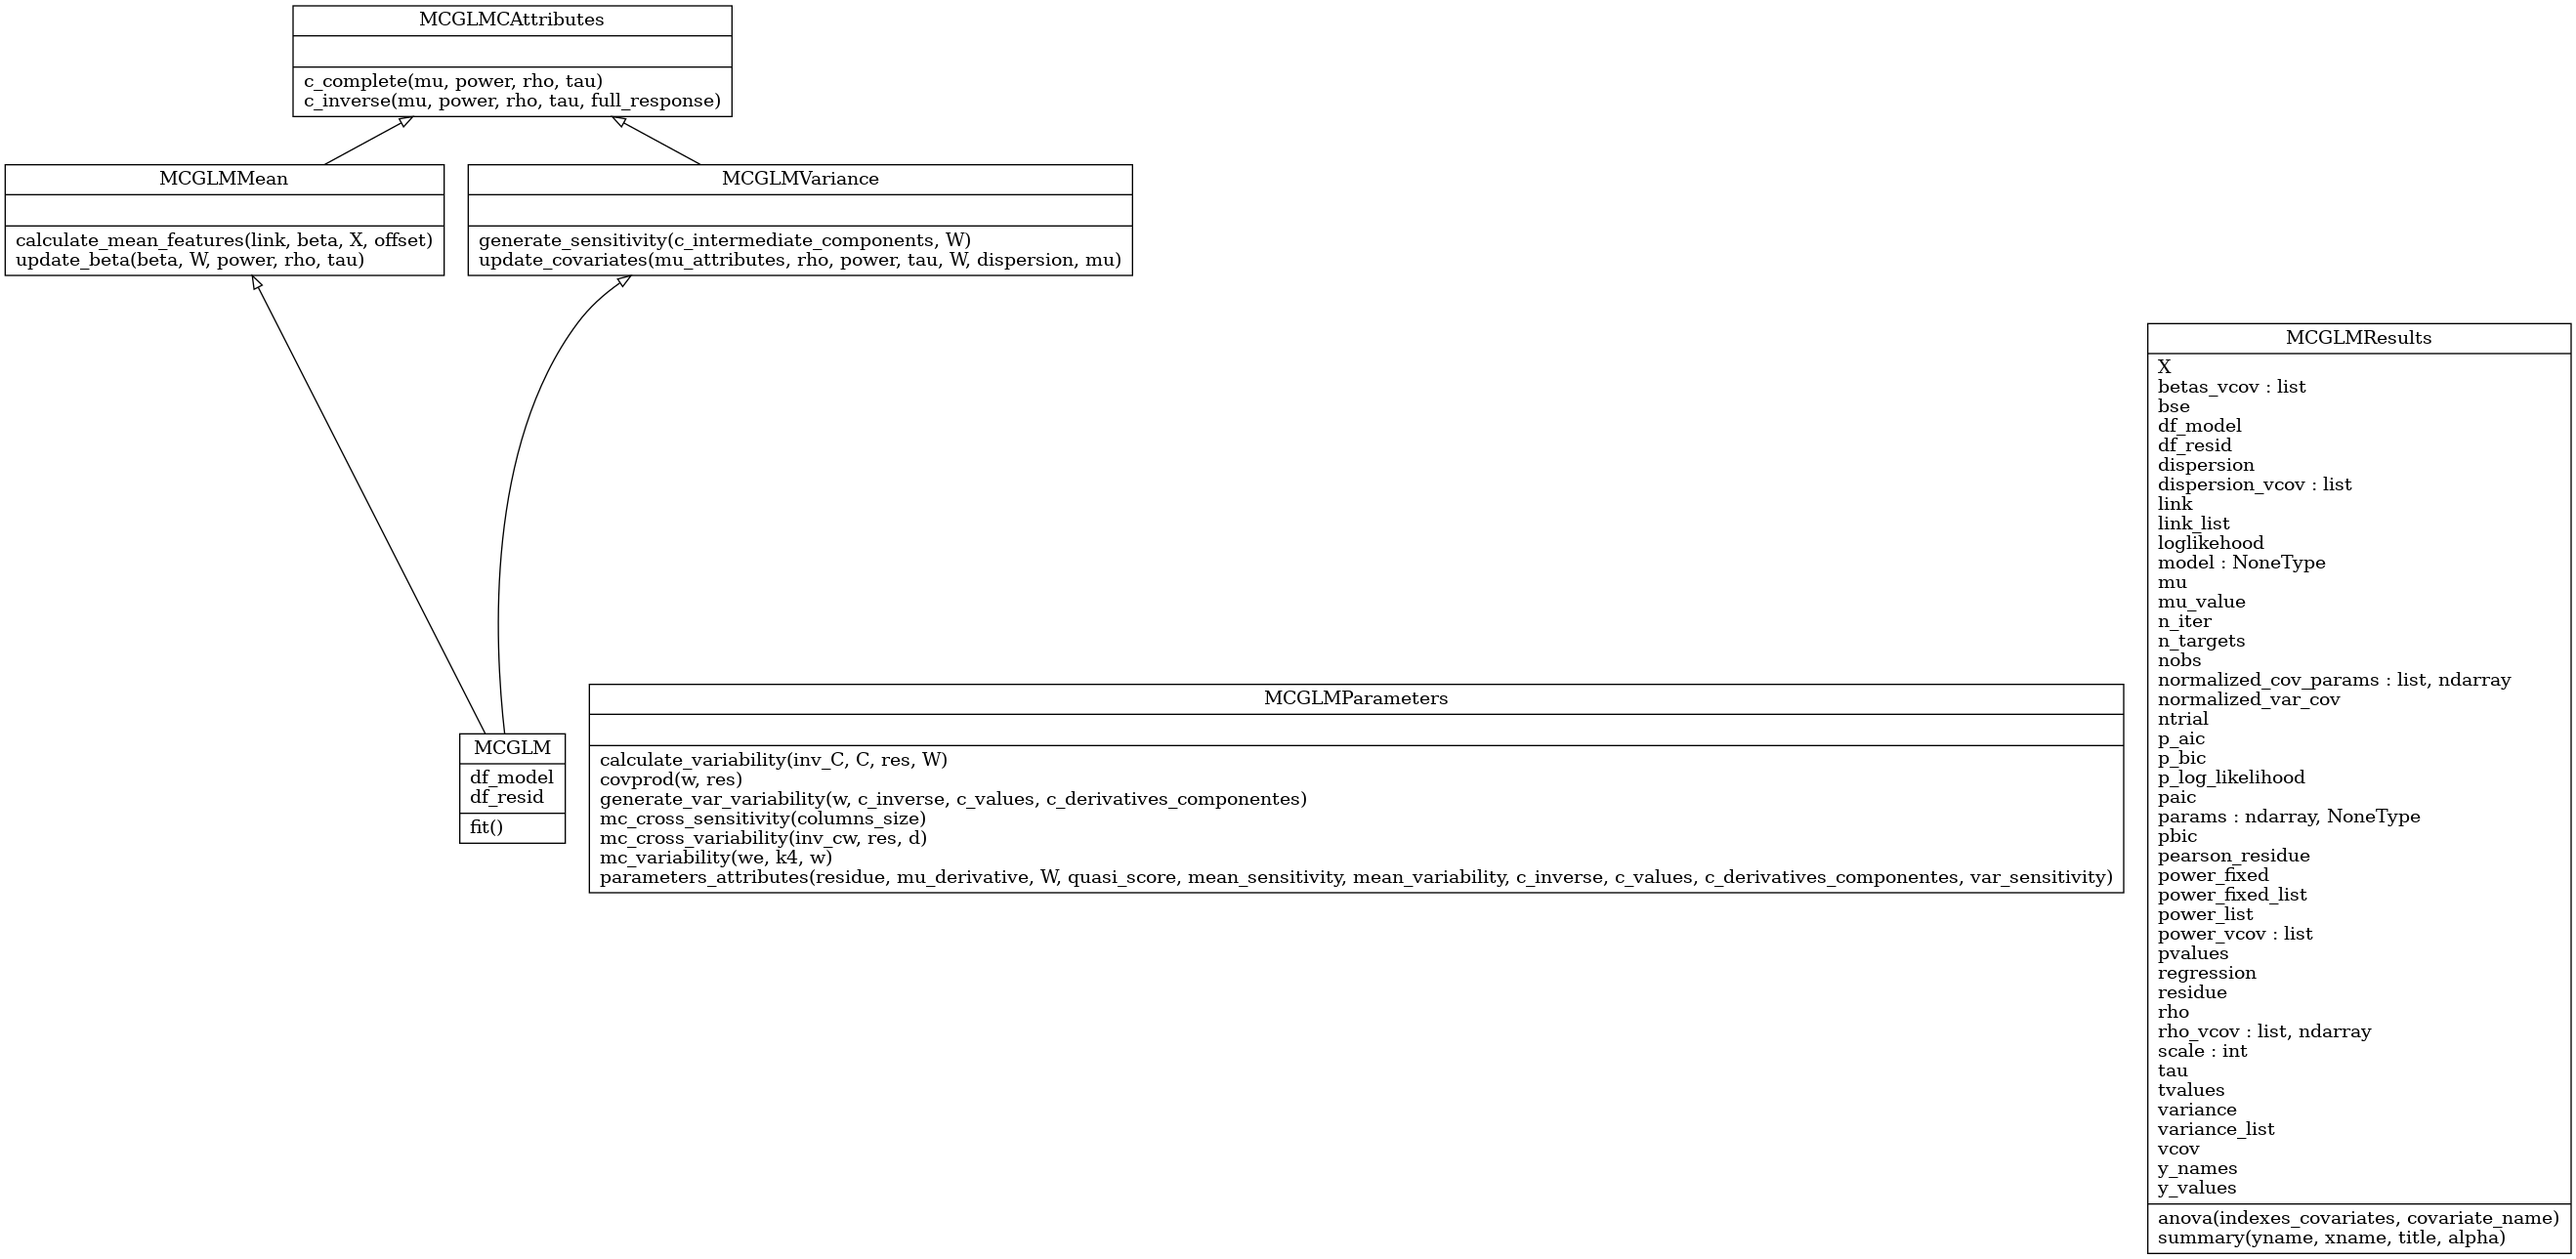
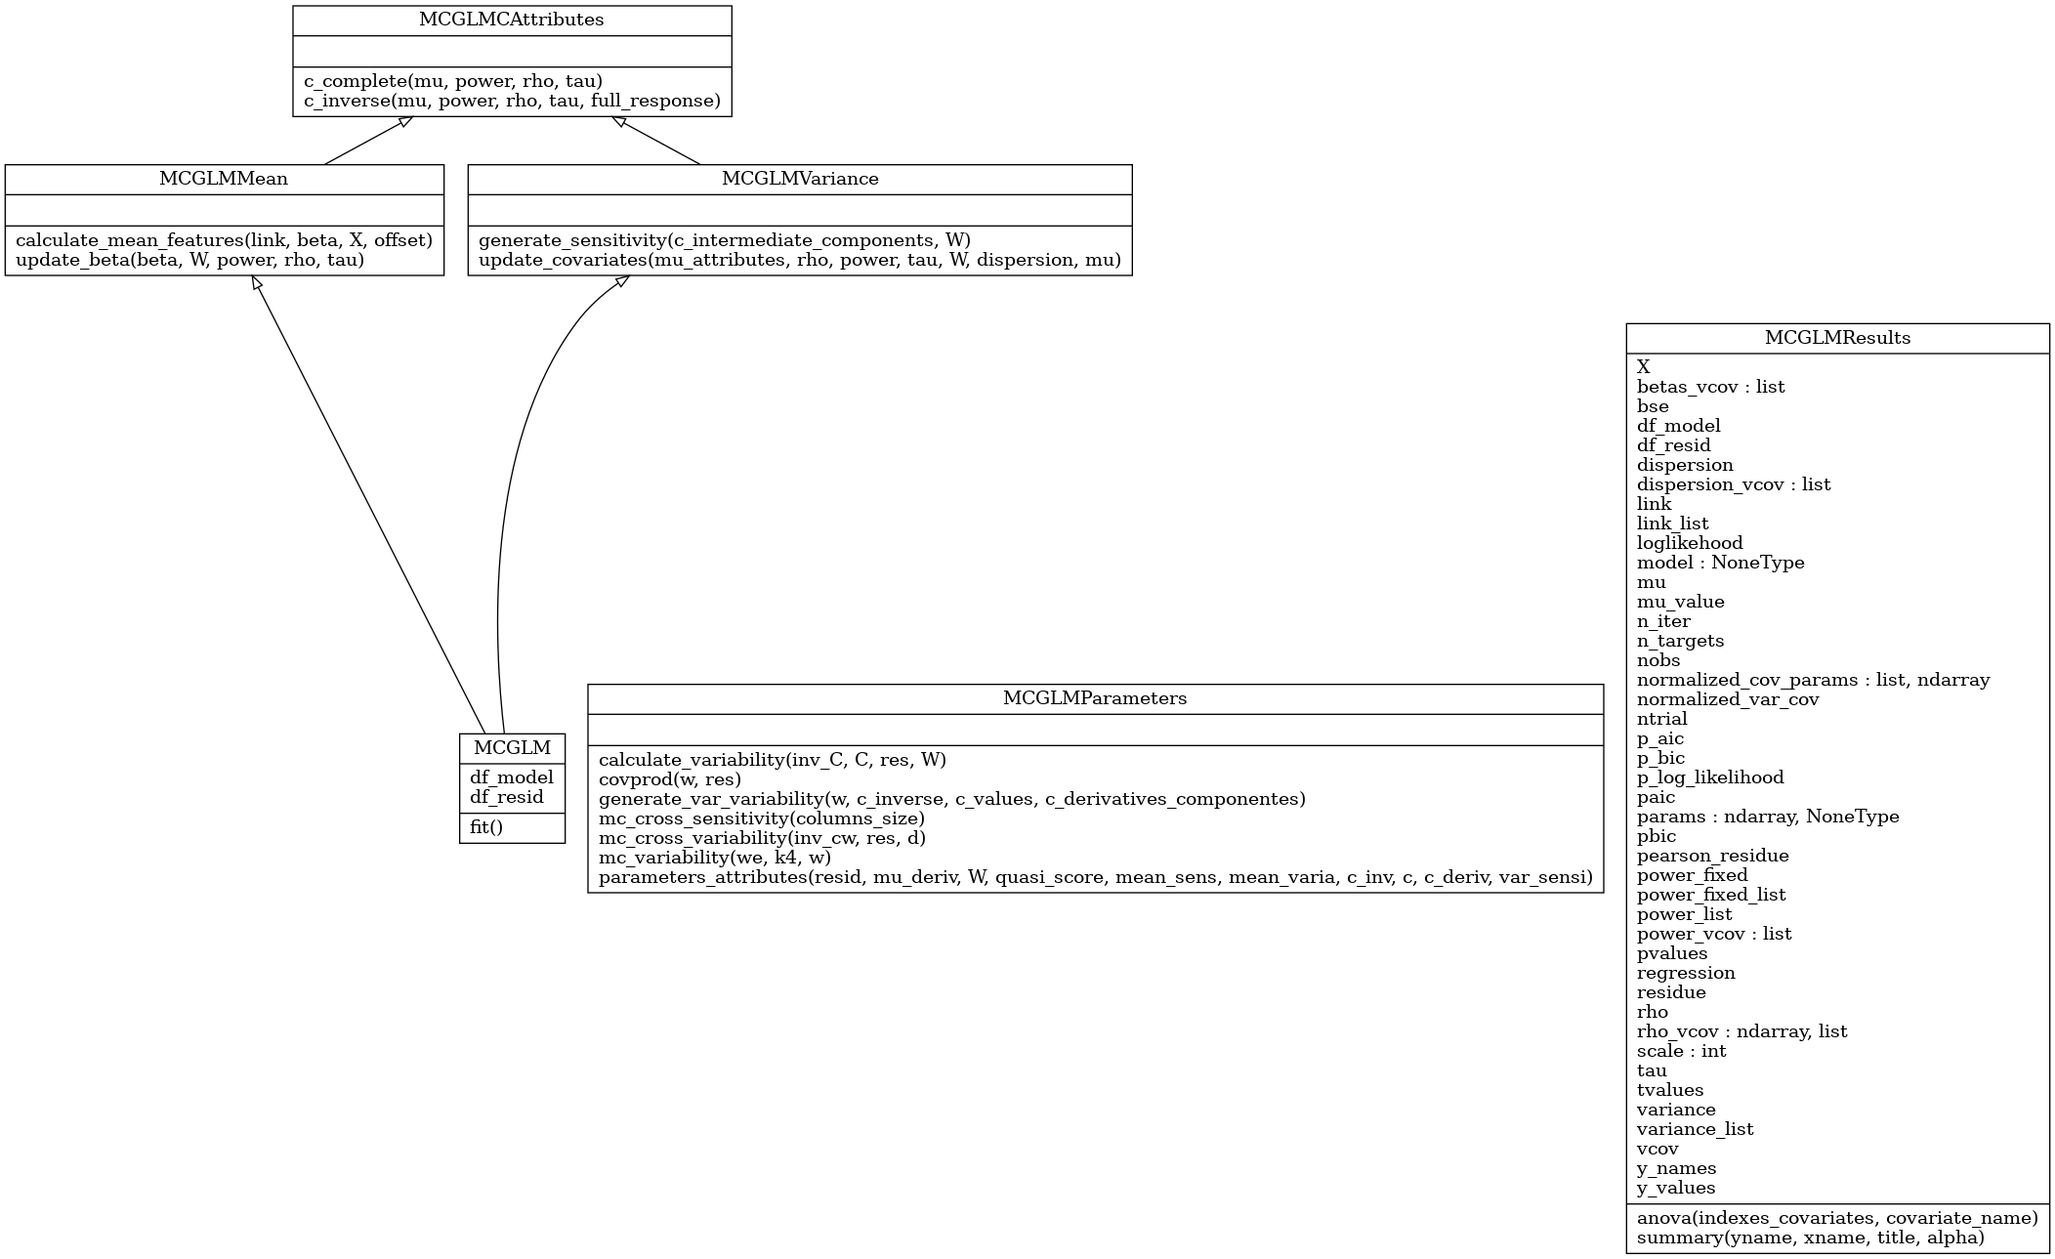
Polishing uml Diagram

diff --git a/mcglm/mcglm.py b/mcglm/mcglm.py
@@ -578,45 +578,45 @@ class MCGLM(MCGLMMean, MCGLMVariance):
 class MCGLMParameters:
     @staticmethod
     def parameters_attributes(
-        residue,
-        mu_derivative,
+        resid,
+        mu_deriv,
         W,
         quasi_score,
-        mean_sensitivity,
-        mean_variability,
-        c_inverse,
-        c_values,
-        c_derivatives_componentes,
-        var_sensitivity,
+        mean_sens,
+        mean_varia,
+        c_inv,
+        c,
+        c_deriv,
+        var_sensi,
     ):
         """The parameters of MCGLM converge assymtoptically to a Normal Distribution. This trait allows some statistical inferences as hypothesis testing, confidence interval and so on. This method crafts three important matrices: Varcov: variance covariance matrix, joint_inv_sensitivity: inverse sensitivity, and joint_variability: the joint variability distribution."""
 
         variance_variability = MCGLMParameters.generate_var_variability(
-            residue, W, c_inverse, c_values, c_derivatives_componentes
+            resid, W, c_inv, c, c_deriv
         )
 
-        inv_cw = np.dot(c_inverse, W)
+        inv_cw = np.dot(c_inv, W)
 
         s_cov_beta = MCGLMParameters.mc_cross_sensitivity(
-            cov_product=c_derivatives_componentes,
+            cov_product=c_deriv,
             columns_size=len(quasi_score),
         )
 
         v_cov_beta = MCGLMParameters.mc_cross_variability(
-            cov_product=c_derivatives_componentes,
+            cov_product=c_deriv,
             inv_cw=inv_cw,
-            res=residue,
-            d=mu_derivative,
+            res=resid,
+            d=mu_deriv,
         )
 
-        p1 = np.append(mean_variability, v_cov_beta.transpose(), axis=0)
+        p1 = np.append(mean_varia, v_cov_beta.transpose(), axis=0)
 
         p2 = np.append(v_cov_beta, variance_variability, axis=0)
         joint_variability = np.append(p1, p2, axis=1)
 
-        inv_J_beta = inv(mean_sensitivity)
+        inv_J_beta = inv(mean_sens)
         inv_S_beta = inv_J_beta
-        inv_S_cov = inv(var_sensitivity)
+        inv_S_cov = inv(var_sensi)
         mat0 = np.zeros((s_cov_beta.shape[1], s_cov_beta.shape[0]))
 
         cross_term = mc_sandwich(s_cov_beta, -inv_S_cov, inv_S_beta)
